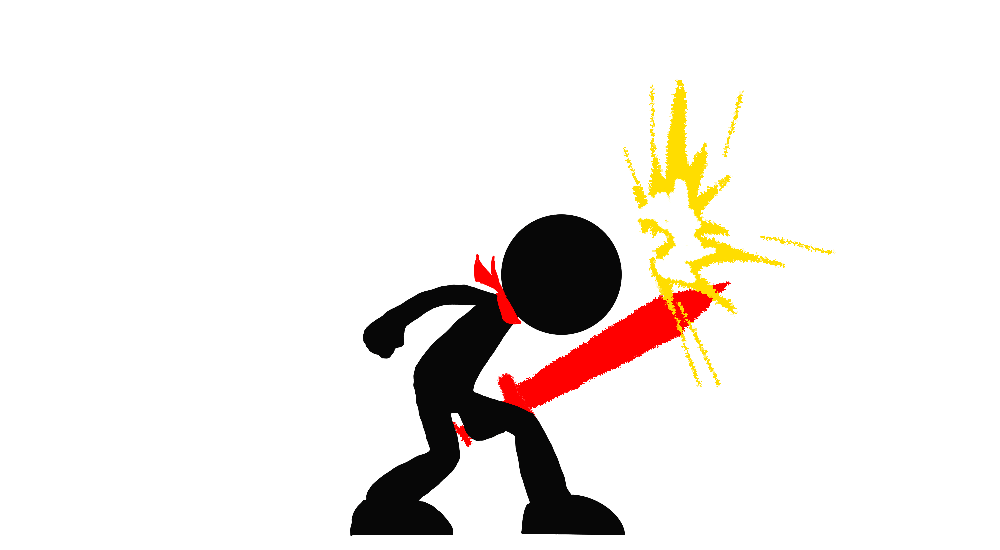
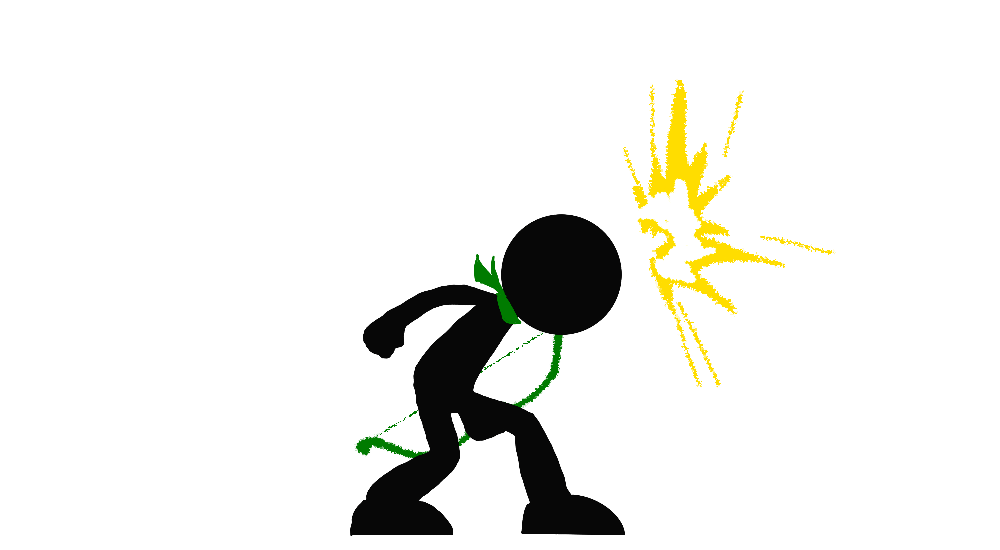
add archer sprite

diff --git a/src/PythonGame/main.py b/src/PythonGame/main.py
@@ -61,12 +61,12 @@ def draw_health_bar(health, x, y):
 enemy_group = pygame.sprite.Group()
 
 #Create player
-enemy1 = Enemy('Player', WIDTH/2, 800, 0.3, 3, screen)
+enemy1 = Enemy('Player', WIDTH/2, 800, 1, 3, screen)
 # enemy2 = Enemy('Player', WIDTH/2 + 50, 800, 0.3, 3, screen)
 enemy_group.add(enemy1)
 # enemy_group.add(enemy2)
 print(enemy_group)
-player = Swordsman('Player', WIDTH/3, 800, 0.3, 8, screen, enemy1)
+player = Swordsman('Player', WIDTH/3, 800, 1, 8, screen, enemy1)
 
 
 #=====INITIALIZE======
